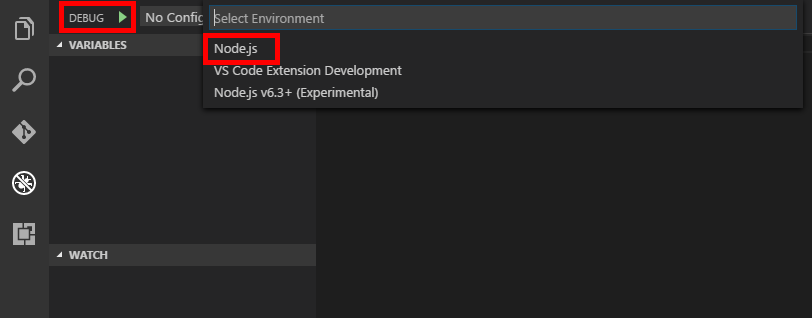
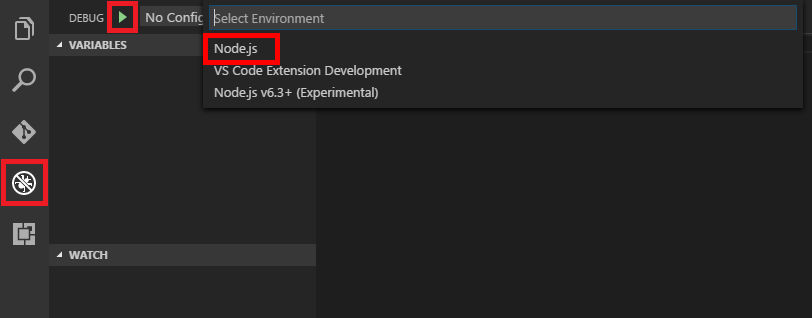
Edited Exercise 5

Changed region(s): [[0.0616, 0.0, 0.1847, 0.1132], [0.0, 0.4811, 0.0616, 0.6509]]

diff --git a/Workshop/14. LUIS (Draft)/LUIS HOL.md b/Workshop/14. LUIS (Draft)/LUIS HOL.md
@@ -46,7 +46,7 @@ This hands-on lab includes the following exercises:
 - [Exercise 2: Configure intents and entities](#Exercise2)
 - [Exercise 3: Add pre-built entities and phrase lists](#Exercise3)
 - [Exercise 4: Publish the model to an HTTP endpoint](#Exercise4)
-- [Exercise 5: Create a bot that uses the model](#Exercise5)
+- [Exercise 5: Create a bot](#Exercise5)
 - [Exercise 6: Integrate the model into the bot](#Exercise6)
  
 Estimated time to complete this lab: **60** minutes.
@@ -341,128 +341,85 @@ In this exercise, you will publish the model to an HTTP endpoint so it can be ac
 
 1. Click the **X** in the upper-right corner of the dialog to close the dialog.
 
-Now that the model is available over HTTP, you can use it from an application and be confident that LUIS will understand a user's intent when searching for news.
+Now that the model is available over HTTP, you can call it from an application and be confident that LUIS will understand the user's intent when searching for news.
 
 <a name="Exercise5"></a>
-## Exercise 5: Create a bot that uses the model ##
+## Exercise 5: Create a bot ##
 
-Now that your LUIS model is published and available for use in applications, it’s time to start building an application to demonstrate the beauty of LUIS. For this exercise, you’ll be creating a bot in Visual Studio Code, that runs locally on your computer using the Microsoft Bot Framework. If you haven’t installed Visual Studio Code, you will need to do so before continuing with this exercise.
+In this exercise, you will use the Microsoft Bot Framework to build a bot that you will later connect to the LUIS model you built and deployed so the bot can respond to commands such as "Find health news." You will use Visual Studio Code to write the bot. If you haven't installed Visual Studio Code, [please do so](http://code.visualstudio.com) before continuing with this exercise. It's free, and it runs on Windows, Linux, and macOS.
 
-Once you have confirmed you have Visual Studio Code installed you can start building your bot:
-
-1. Start Visual Studio Code and open the Integrated Terminal by clicking **View** > **Integrated Terminal** in the VS Code menu. The TERMINAL windows will appear at the bottom of your environment workspace.
+1. Start Visual Studio Code and select **Integrated Terminal** from the **View** menu. A TERMINAL window will appear at the bottom of the workspace.
  
-    ![Opening the Integrated Terminal](Images/vs-select-open-terminal.png)
+    ![Opening an Integrated Terminal](Images/vs-select-open-terminal.png)
 
-    _Opening the Integrated Terminal_
+    _Opening an Integrated Terminal_
 
-    ![The Integrated Terminal window](Images/vs-integrated-terminal.png)
-
-    _The Integrated Terminal window_
-
-1. In the TERMINAL window type “md Newsy” and hit the **enter key** on your keyboard. A new folder named Newsy has been created.
- 
-    ![Executing md Newsy](Images/vs-md-newsy.png)
-
-    _Executing md Newsy_
-
-1. Type “cd Newsy” in the TERMINAL window, and hit the **enter key** on your keyboard to navigate to the new "Newsy" folder.
-
-    ![Executing cd Newsy](Images/vs-cd-newsy.png)
-
-    _Executing cd Newsy_
-
-1. Type “code .” [the word code, followed by a space and period) to open VS Code in your new folder location. 
-
-    ![Opening a new instance of Visual Studio Code](Images/vs-code-dot.png)
-
-    _Opening a new instance of Visual Studio Code_
-
-	A new instance of VS Code will start. You will be working in this instance of VS Code for the remainder of the exercises.
-
-    ![The new Newsy](Images/vs-newsy-opened.png)
-
-    _The new Newsy project_
-
-1. In the Explorer, click the **New File** icon to the right of the NEWSY heading to create a new file, and then type “app.js” (without quotation marks) in the new line item in Explorer and hit the **enter key** on your keyboard.
-
-    ![Adding a new project file](Images/vs-click-add-new-file.png)
-
-    _Adding a new project file_
-
-    ![The new app.js file](Images/vs-new-app-js-file.png)
-
-    _The new app.js file_
-
-	A new app.js file has been created. This file will contain the code for your bot.
-
-1. Enter the following single line of code at the top of your new app.js file: 
+1. In the TERMINAL window, execute the following commands to create a folder named "Newsy" and make it the current directory:
 
 	```
+	md Newsy
+	cd Newsy
+	```
+ 
+    ![Creating a "Newsy" folder](Images/vs-newsy.png)
+
+    _Creating a "Newsy" folder_
+
+1. Execute the following command in the TERMINAL window to launch a new instance of Visual Studio Code from the Newsy directory. You can then close the old instance of Visual Studio Code.
+
+	```
+	code .
+	```
+
+1. Click the **New File** icon to create a new file in the "Newsy" folder, and name the file **app.js**.
+
+    ![Adding a new to the project](Images/vs-click-add-new-file.png)
+
+    _Adding a new file to the project_
+
+1. Enter the following line of JavaScript code into **app.js**. Then save the file.
+
+	```JavaScript
 	console.log("Welcome to Newsy!");
 	```
 
-1. From the Visual Studio code menu, open the Integrated Terminal again by clicking **View** > **Integrated Terminal**. 
+1. Select **Integrated Terminal** from the **View** menu again to open an integrated terminal. 
  
-    ![Opening the Integrated Terminal](Images/vs-select-open-terminal.png)
-
-    _Opening the Integrated Terminal_
-
 1. In the TERMINAL window, execute the following command to install the Microsoft Bot Builder SDK:
 
-```
-npm install --save botbuilder
-```	
+	```
+	npm install --save botbuilder
+	```	
 
-1. Now execute this command in the TERMINAL window to install the packages needed to leverage REST-based messaging routes in your code:
-
-```
-npm install --save restify
-```	 
-
-1. Execute the following command in the TERMINAL window to run the application and output "Welcome to Newsy!":
-
-```
-node app.js
-```	
-
-To finish configuring your bot project we need to add the configuration values generated by your LUIS application in Exercise 1. You will be adding these values to an auto generated configuration file. 
-
-To automatically generate your bot project configuration file:
-
-1.	Click the Visual Studio Code **Debug** tab to open the DEBUG panel.
-
-    ![Selecting the Debug tab](Images/vs-select-debug-tab.png)
-
-    _Selecting the Debug tab_	
-
-1.	Click the **DEBUG** (green arrow) in the top panel menu and then select **Node.js** from the “Select Environment” drop down. A new launch.json file will be automatically created with default values for deployment and debugging. A message will appear alerting you to setup the launch configuration file for this project. Click the **Close** button.
-	
-    ![Creating a new launch file](Images/vs-creating-launch-file.png)
-
-    _Creating a new launch file_	
-	
-    ![Acknowledging creation of a newly created launch.json file](Images/vs-new-launch-file-created.png)
-
-    _Acknowledging creation of a newly created launch.json file_	
-
-1.	Locate the “cwd” node and enter **a comma** (**,**) at the end of this line, and then enter the following code directly below the “cwd" line to add console support for  the integrated terminal:		
+1. Now execute this command to install the packages needed to leverage REST-based messaging routes in your code:
 
 	```
-	"console": "integratedTerminal"  
+	npm install --save restify
+	```	 
+
+1. Execute the following command to run the application and output "Welcome to Newsy!" to the TERMINAL window:
+
+	```
+	node app.js
+	```	
+
+1.	Click the **Debug** button in the ribbon on the left. Then click the **green arrow** at top and select **Node.js** from the drop-down list. This adds a new configuration file named **launch.json** to your project. When a message appears asking you to set up the launch configuration file for this project, click the **Close** button.
+	
+    ![Adding a launch file to the project](Images/vs-creating-launch-file.png)
+
+    _Adding a launch file to the project_	
+
+1. Add the following line to **launch.json**, inserting it between the "program" property and the "cwd" property as shown below. The save the file.
+
+	```JSON
+	"console": "integratedTerminal",
 	```
 	
-    ![Adding the launch file console node](Images/vs-edit-launch.png)
+    ![Adding a "console" setting to launch.json](Images/vs-edit-launch.png)
 
-    _Adding the launch file console node_	
+    _Adding a "console" setting to launch.json_	
 
-1. Close the new launch.json file by selecting **File** > **Close Editor** from the Visual Studio Code menu. If prompted to save changes, click **Save**.
-	
-    ![Closing the Visual Code editor window](Images/vs-file-close-editor.png)
-
-    _Closing the Visual Code editor window_	
-
-Your bot project is now setup and configured and you’re ready to write code to demonstrate communication between a user and your bot. The next step is to write code to access your LUIS model endpoint and send the information to a news service to return search results to a user, creating a more provide a more meaningful human to computer experience.
+The bot project is now set up and you are ready to connect the bot to the LUIS model you deployed in [Exercise 4](#Exercise4). This is the fun part. Let's get to it!
 
 <a name="Exercise6"></a>
 ## Exercise 6: Integrate the model into the bot ##
